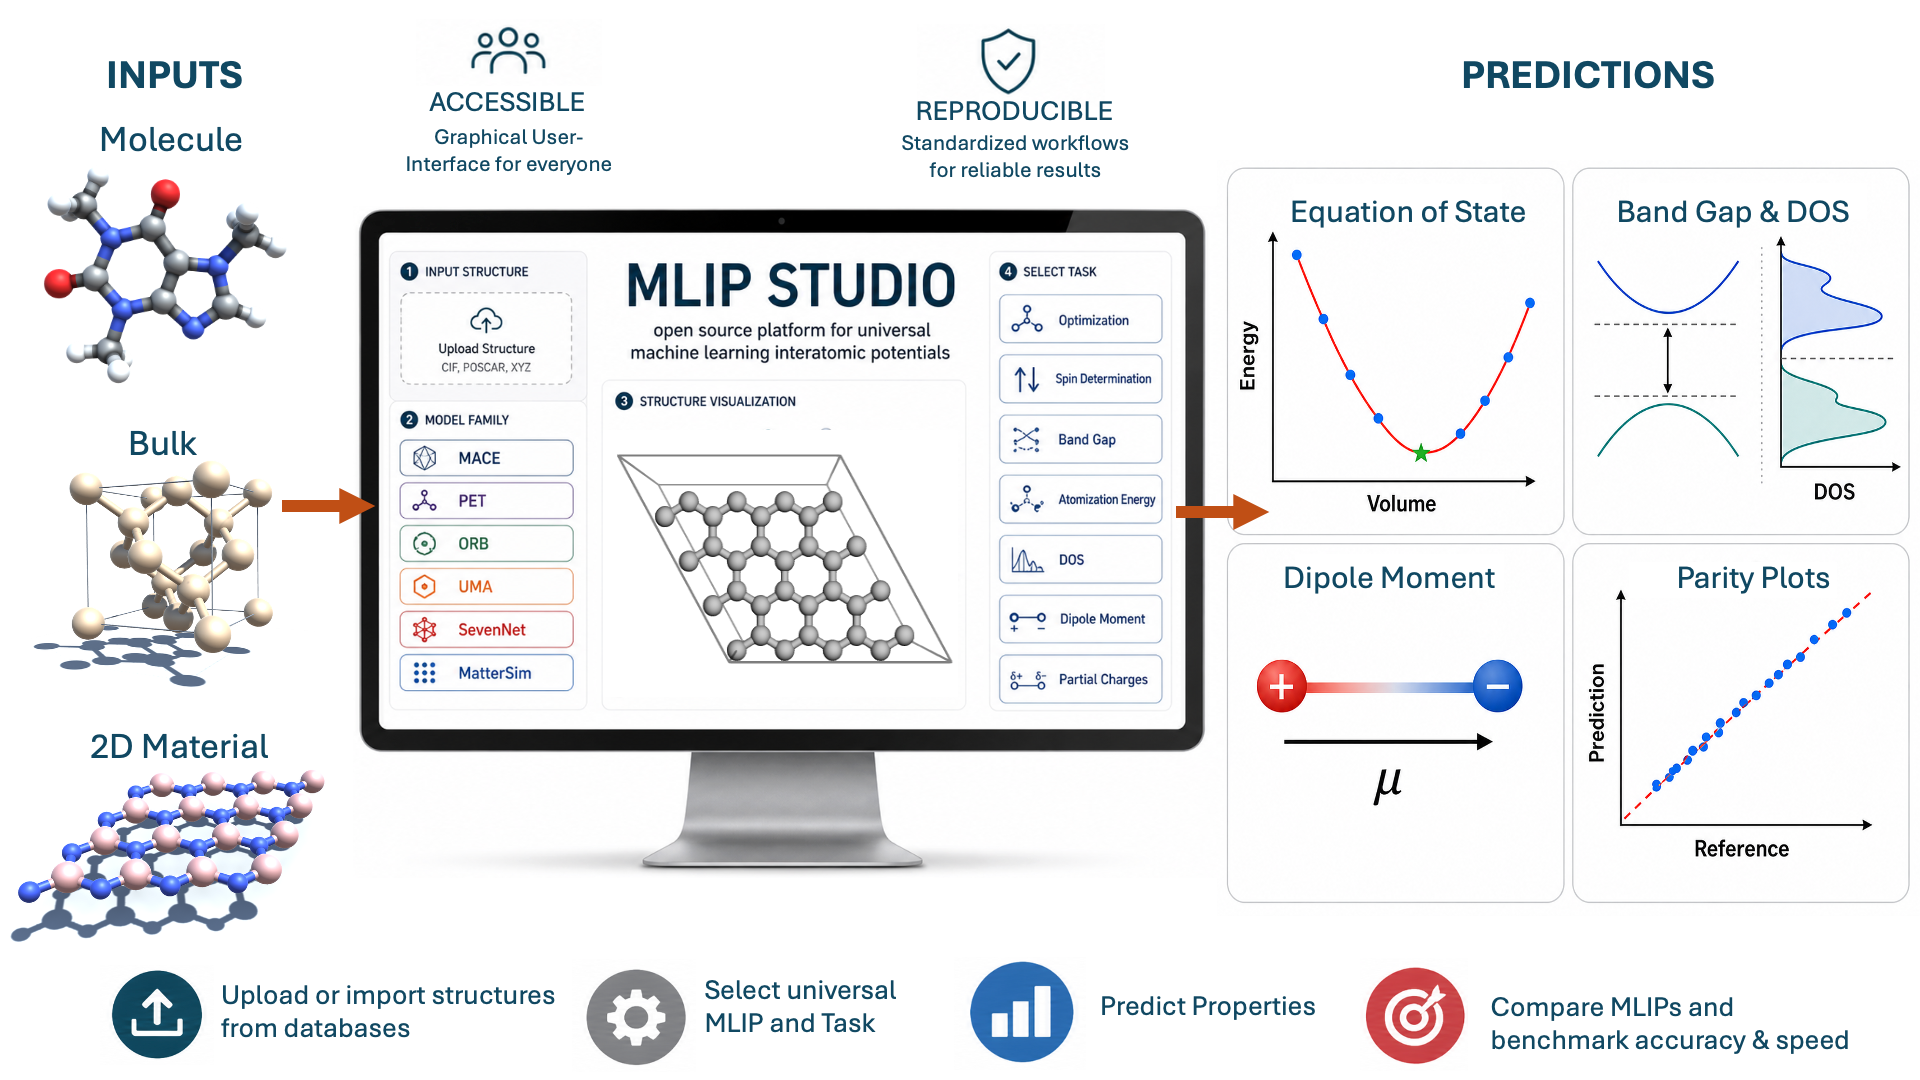
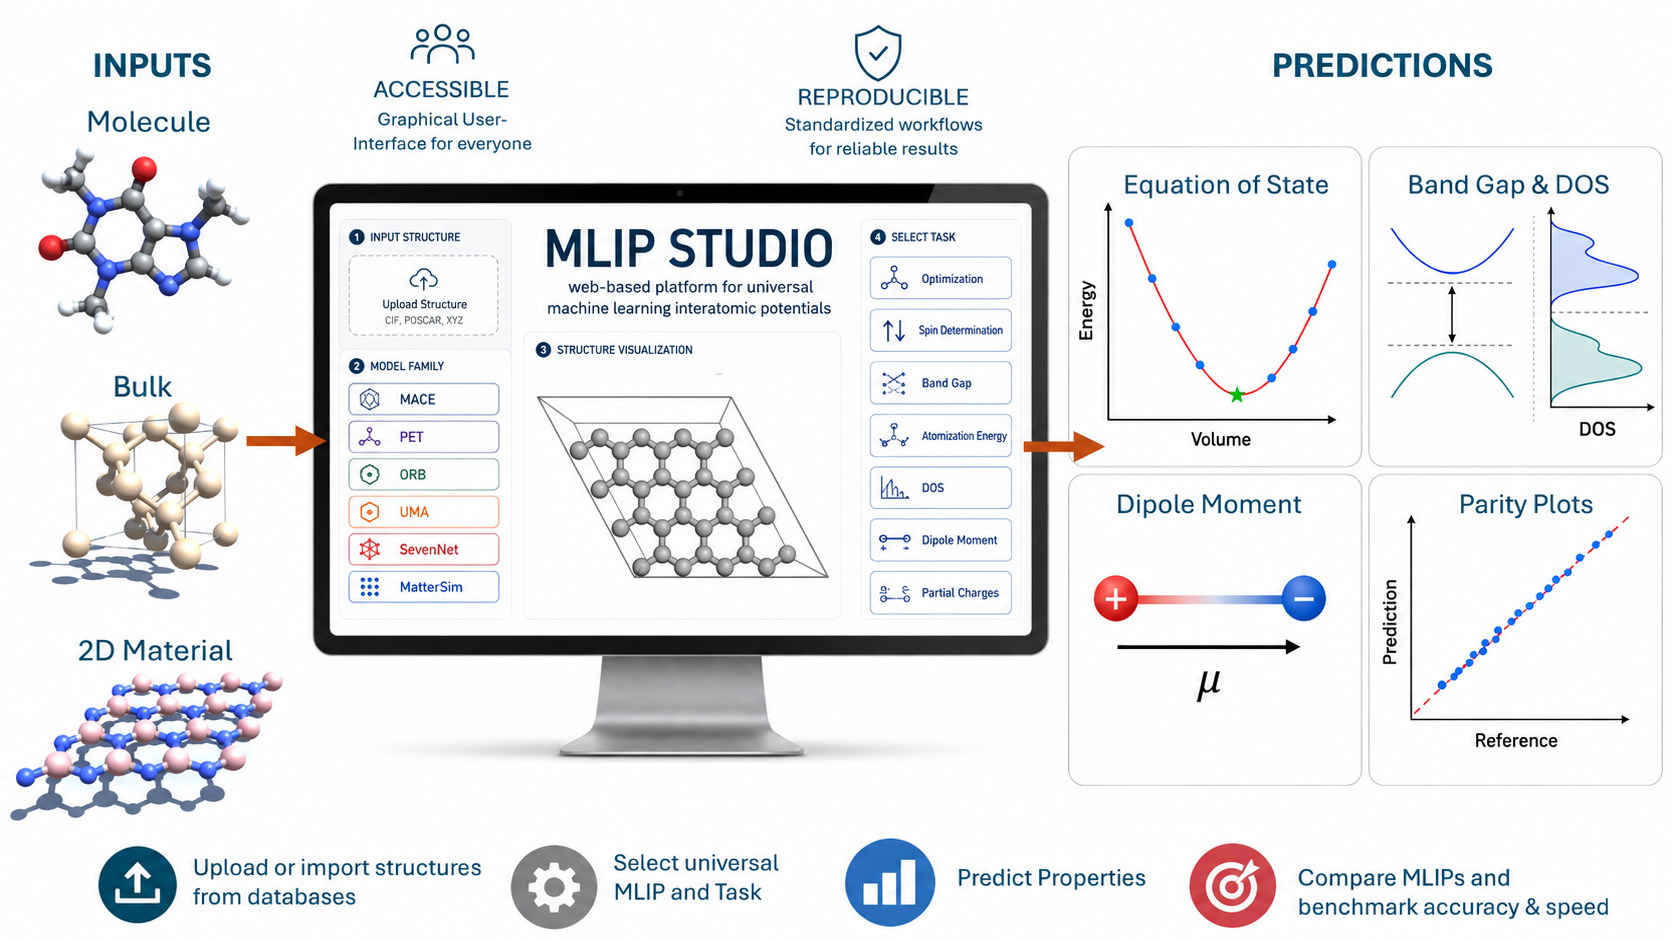
some updates to the license displays and also the TOC

diff --git a/Home.py b/Home.py
@@ -71,9 +71,11 @@ from torch_dftd.torch_dftd3_calculator import TorchDFTD3Calculator
 from upet.calculator import UPETCalculator
 from upet.calculator import PETMADDOSCalculator
 from model_config import (
-    MACE_MODELS, MACE_CITATIONS, FAIRCHEM_MODELS, ORB_MODELS,
+    MACE_MODELS, MACE_CITATIONS, MACE_LICENSES, FAIRCHEM_MODELS, ORB_MODELS,
     MATTERSIM_MODELS, UPET_MODELS, UPET_MODELS_VERSIONS,
-    SEVEN_NET_MODELS, SAMPLE_STRUCTURES, FAIRCHEM_CITATIONS, UPET_CITATIONS, ORB_CITATIONS, MATTERSIM_CITATIONS, SEVEN_NET_CITATIONS
+    SEVEN_NET_MODELS, SAMPLE_STRUCTURES, FAIRCHEM_CITATIONS, UPET_CITATIONS, ORB_CITATIONS, MATTERSIM_CITATIONS, SEVEN_NET_CITATIONS,
+    FAIRCHEM_LICENSES, ORB_LICENSE, MATTERSIM_LICENSE, SEVEN_NET_LICENSE, UPET_LICENSE, UFF_LICENSE, XTB_LICENSE, D3_LICENSE,
+    get_model_license
 )
 from model_consensus import (
     MODEL_CONSENSUS_TASK,
@@ -1829,6 +1831,12 @@ if atoms is not None:
 consensus_selection = None
 if task == MODEL_CONSENSUS_TASK:
     consensus_selection = render_consensus_sidebar(atoms)
+    # Show each distinct license that applies to the selected committee
+    for license_note in dict.fromkeys(
+        note for spec in consensus_selection.model_specs
+        if (note := get_model_license(spec.family, spec.label))
+    ):
+        st.sidebar.info(license_note)
 else:
     st.sidebar.markdown("## Model Selection")
     if mattersim_available:
@@ -1850,10 +1858,8 @@ else:
             selected_model = st.sidebar.selectbox("Select MACE Model:", list(MACE_MODELS.keys()))
             model_path = MACE_MODELS[selected_model]
 
-            if selected_model in ["MACE OMAT Medium", " MACE OMAT Small", "MACE MATPES r2SCAN Medium", "MACE MATPES r2SCAN Medium",
-                                "MACE OMOL-0 XL 4M", "MACE OFF 24 Medium",
-                                "MACE OFF 23 Large", "MACE OFF 23 Medium", "MACE OFF 24 Small", "MACE POLAR 1 S", "MACE POLAR 1 M", "MACE POLAR 1 L"]:
-                st.sidebar.info("Using model under [Academic Software License (ASL)](https://github.com/gabor1/ASL/blob/main/ASL.md).")
+            if selected_model in MACE_LICENSES:
+                st.sidebar.info(MACE_LICENSES[selected_model])
             # Display Citation
             if selected_model in MACE_CITATIONS:
                 st.sidebar.info(MACE_CITATIONS[selected_model])
@@ -1941,8 +1947,9 @@ else:
             st.sidebar.info(FAIRCHEM_CITATIONS[selected_model])
         else:
             st.sidebar.warning("Citation not available for this model.")
+        if selected_model in FAIRCHEM_LICENSES:
+            st.sidebar.info(FAIRCHEM_LICENSES[selected_model])
         if "UMA Small" in selected_model:
-            st.sidebar.info("Meta FAIR [Acceptable Use Policy](https://huggingface.co/facebook/UMA/blob/main/LICENSE) applies.")
             selected_task_type = st.sidebar.selectbox("Select UMA Model Task Type:", ["omol", "omat", "omc", "odac", "oc20"])
             if selected_task_type == "omol" and atoms is not None:
                 is_omol_model = True
@@ -1963,7 +1970,7 @@ else:
             st.sidebar.info(ORB_CITATIONS[selected_model])
         else:
             st.sidebar.warning("Citation not available for this model.")
-        st.sidebar.info("ORB models are licensed under the [Apache License, Version 2.0.](https://github.com/orbital-materials/orb-models/blob/main/LICENSE)")
+        st.sidebar.info(ORB_LICENSE)
         # selected_default_dtype = st.sidebar.selectbox("Select Precision (default_dtype):", ['float32-high', 'float32-highest', 'float64'])
         selected_default_dtype = st.sidebar.selectbox("Select Precision (default_dtype):", ['float32-high', 'float32-highest'])
         if "OMOL" in selected_model and atoms is not None:
@@ -1985,6 +1992,7 @@ else:
             st.sidebar.info(MATTERSIM_CITATIONS[selected_model])
         else:
             st.sidebar.warning("Citation not available for this model.")
+        st.sidebar.info(MATTERSIM_LICENSE)
     if model_type == "SEVEN_NET":
         selected_model = st.sidebar.selectbox("Select SEVENNET Model:", list(SEVEN_NET_MODELS.keys()))
         if selected_model == '7net-mf-ompa':
@@ -2001,6 +2009,7 @@ else:
             st.sidebar.info(SEVEN_NET_CITATIONS[selected_model])
         else:
             st.sidebar.warning("Citation not available for this model.")
+        st.sidebar.info(SEVEN_NET_LICENSE)
     if model_type == "UPET":
         selected_model = st.sidebar.selectbox("Select UPET Model:", list(UPET_MODELS.keys()))
         model_path = UPET_MODELS[selected_model]
@@ -2009,15 +2018,19 @@ else:
             st.sidebar.info(UPET_CITATIONS[selected_model])
         else:
             st.sidebar.warning("Citation not available for this model.")
+        st.sidebar.info(UPET_LICENSE)
         non_conservative = st.sidebar.toggle("Direct (non-conservative forces)?", value=True)
         uncertainty = st.sidebar.toggle("Uncertainty Prediction?", value=False)
     if model_type=="UFF":
         selected_model = "N/A"
+        st.sidebar.info(UFF_LICENSE)
         # st.sidebar.warning('The currently implemented UFF calculator is found to be somewhat unstable in internal tests. Its usage is only recommended for energy value evaluations and not for geometry optimizations.')
     if model_type=="xTB":
         selected_model = "N/A"
+        st.sidebar.info(XTB_LICENSE)
     if model_type=="D3 dispersion":
         selected_model = "N/A"
+        st.sidebar.info(D3_LICENSE)
         # Exchange-correlation functional
         xc_dsip = st.sidebar.text_input("XC Functional", value="PBE")
         st.sidebar.info('You can get the codes of supported XC functionals from this [link]([https://github.com/pfnet-research/torch-dftd/blob/master/torch_dftd/dftd3_xc_params.py).')

diff --git a/model_config.py b/model_config.py
@@ -24,6 +24,68 @@ MACE_MODELS = {
     "MACE POLAR 1 M": "https://github.com/ACEsuit/mace-foundations/releases/download/mace_polar_1/MACE-POLAR-1-M.model",
     "MACE POLAR 1 L": "https://github.com/ACEsuit/mace-foundations/releases/download/mace_polar_1/MACE-POLAR-1-L.model"
 }
+# Licenses as stated in the ACEsuit mace / mace-mp / mace-foundations / mace-off READMEs and release notes.
+_MACE_ASL = "Using model under [Academic Software License (ASL)](https://github.com/gabor1/ASL/blob/main/ASL.md)."
+_MACE_MIT = "Using model under the [MIT License](https://github.com/ACEsuit/mace/blob/main/LICENSE.md)."
+MACE_LICENSES = {
+    "MACE MPA Medium": _MACE_MIT,
+    "MACE OMAT Medium": _MACE_ASL,
+    "MACE OMAT Small": _MACE_ASL,
+    "MACE MATPES r2SCAN Medium": _MACE_ASL,
+    "MACE MATPES PBE Medium": _MACE_ASL,
+    "MACE MP 0a Small": _MACE_MIT,
+    "MACE MP 0a Medium": _MACE_MIT,
+    "MACE MP 0a Large": _MACE_MIT,
+    "MACE MP 0b Small": _MACE_MIT,
+    "MACE MP 0b Medium": _MACE_MIT,
+    "MACE MP 0b2 Small": _MACE_MIT,
+    "MACE MP 0b2 Medium": _MACE_MIT,
+    "MACE MP 0b2 Large": _MACE_MIT,
+    "MACE MP 0b3 Medium": _MACE_MIT,
+    "MACE ANI-CC Large (500k)": _MACE_MIT,  # Shipped inside the MIT-licensed ACEsuit/mace repo
+    "MACE OMOL-0 XL 4M": _MACE_ASL,
+    "MACE OMOL-0 XL 1024": _MACE_ASL,
+    "MACE OFF 23 Large": _MACE_ASL,
+    "MACE OFF 23 Medium": _MACE_ASL,
+    "MACE OFF 23 Small": _MACE_ASL,
+    "MACE OFF 24 Medium": _MACE_ASL,
+    "MACE POLAR 1 S": _MACE_ASL,
+    "MACE POLAR 1 M": _MACE_ASL,
+    "MACE POLAR 1 L": _MACE_ASL,
+}
+# Licenses for the other families, as stated in each project's repository / Hugging Face model card.
+_FAIR_UMA = "UMA models are licensed under the [FAIR Chemistry License v1](https://huggingface.co/facebook/UMA/blob/main/LICENSE); use must comply with its Acceptable Use Policy."
+_FAIR_OMOL = "OMol25 eSEN models are licensed under the [FAIR Chemistry License v1](https://huggingface.co/facebook/OMol25); use must comply with its Acceptable Use Policy."
+FAIRCHEM_LICENSES = {
+    "UMA Small 1.2": _FAIR_UMA,
+    "UMA Small 1.1": _FAIR_UMA,
+    "ESEN MD Direct All OMOL": _FAIR_OMOL,
+    "ESEN SM Conserving All OMOL": _FAIR_OMOL,
+    "ESEN SM Direct All OMOL": _FAIR_OMOL,
+}
+ORB_LICENSE = "ORB models are licensed under the [Apache License, Version 2.0.](https://github.com/orbital-materials/orb-models/blob/main/LICENSE)"
+MATTERSIM_LICENSE = "MatterSim models are licensed under the [MIT License](https://github.com/microsoft/mattersim/blob/main/LICENSE.txt)."
+SEVEN_NET_LICENSE = "SevenNet models are licensed under the [MIT License](https://github.com/MDIL-SNU/SevenNet/blob/main/LICENSE)."
+UPET_LICENSE = "UPET/PET models are licensed under the [BSD 3-Clause License](https://github.com/lab-cosmo/upet/blob/main/LICENSE)."
+UFF_LICENSE = "UFF is evaluated with [RDKit](https://www.rdkit.org/), licensed under the [BSD 3-Clause License](https://github.com/rdkit/rdkit/blob/master/license.txt)."
+XTB_LICENSE = "xTB is licensed under the [GNU LGPL v3](https://github.com/grimme-lab/xtb/blob/main/COPYING.LESSER)."
+D3_LICENSE = "Dispersion corrections use [torch-dftd](https://github.com/pfnet-research/torch-dftd), licensed under the [MIT License](https://github.com/pfnet-research/torch-dftd/blob/master/LICENSE)."
+
+
+def get_model_license(family, label):
+    """License notice for a model, using the family names from model_consensus."""
+    if family == "MACE":
+        return MACE_LICENSES.get(label)
+    if family == "FairChem":
+        return FAIRCHEM_LICENSES.get(label)
+    return {
+        "ORB": ORB_LICENSE,
+        "MatterSim": MATTERSIM_LICENSE,
+        "SevenNet": SEVEN_NET_LICENSE,
+        "UPET/PET": UPET_LICENSE,
+    }.get(family)
+
+
 MACE_CITATIONS = {
     # --- MACE-MP (Materials Project) Models ---
     "MACE MP 0a Small": "**Model:** Batatia et al., *J. Chem. Phys.* 163, 184110 (2025) [arXiv:2312.15211]  \n**Data:** Jain et al., *APL Mater.* 1, 011002 (2013) (Materials Project)",

diff --git a/README.md b/README.md
@@ -532,7 +532,7 @@ The public online instance is provided for free community access, but it is not 
 
 ## License
 
-MLIP Studio is released under the Academic Software License. See the [`ASL.md`](ASL.md) file for details.
+MLIP Studio is released under the Academic Software License. See the [`LICENSE.md`](LICENSE.md) file for details.
 
 Note that MLIP Studio provides access to several third-party model families, calculators, and datasets. These upstream components may be distributed under their own licenses or usage terms, which users are responsible for reviewing and following separately.
 
